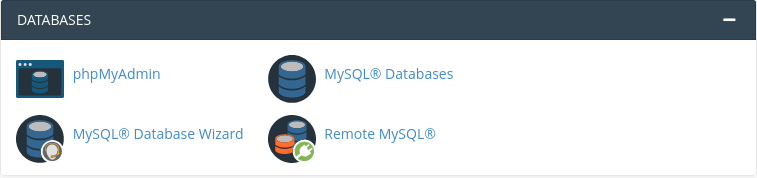
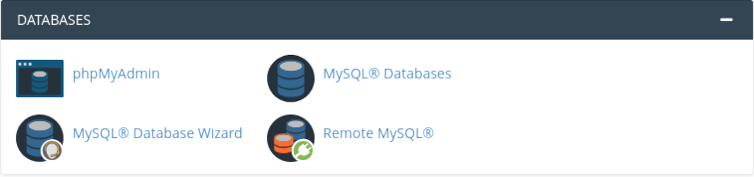
Resizing images for an optimized rendering

Changed region(s): [[0.0, 0.1977, 1.0, 0.226], [0.0305, 0.5367, 0.0915, 0.565], [0.0305, 0.3107, 0.0915, 0.339]]

diff --git a/docs/source/joomla-to-vps.rst b/docs/source/joomla-to-vps.rst
@@ -79,12 +79,16 @@ To backup your website files and the corresponding database, follow these steps:
 	.. figure:: pics/public-html.png
 		:alt: public_html in the cPanel
 		:align: center
+		:width: 754
+		:height: 252
 
 #. In the cPanel main menu, go to **Backup** > **Databases** > **MySQL® Database Wizard**.
 
 	.. figure:: pics/mysql-database-wizard.png
 		:alt: public_html in the cPanel
 		:align: center
+		:width: 754
+		:height: 177
 
    The Backup Wizard provides multiple options. Select **Full or Partial Backup** > **Select Partial Backup** > **MySQL Databases**. This will allow you to download a backup of the MySQL database(s) of your Joomla website to your local machine.
 
@@ -158,7 +162,8 @@ Preparing your new VPS server to host your website
 .. figure:: _static/pics/joomla-vps/spacedog-repairman-mini.png
    :alt: Preparing your new VPS server
    :align: center
-   :width: 400
+   :width: 500
+   :height: 486
 
    "Spacedog Repairman" by `Katharsisdrill <https://katharsisdrill.art>`_ under `CC BY 4.0 <https://creativecommons.org/licenses/by/4.0/>`_ License
 
